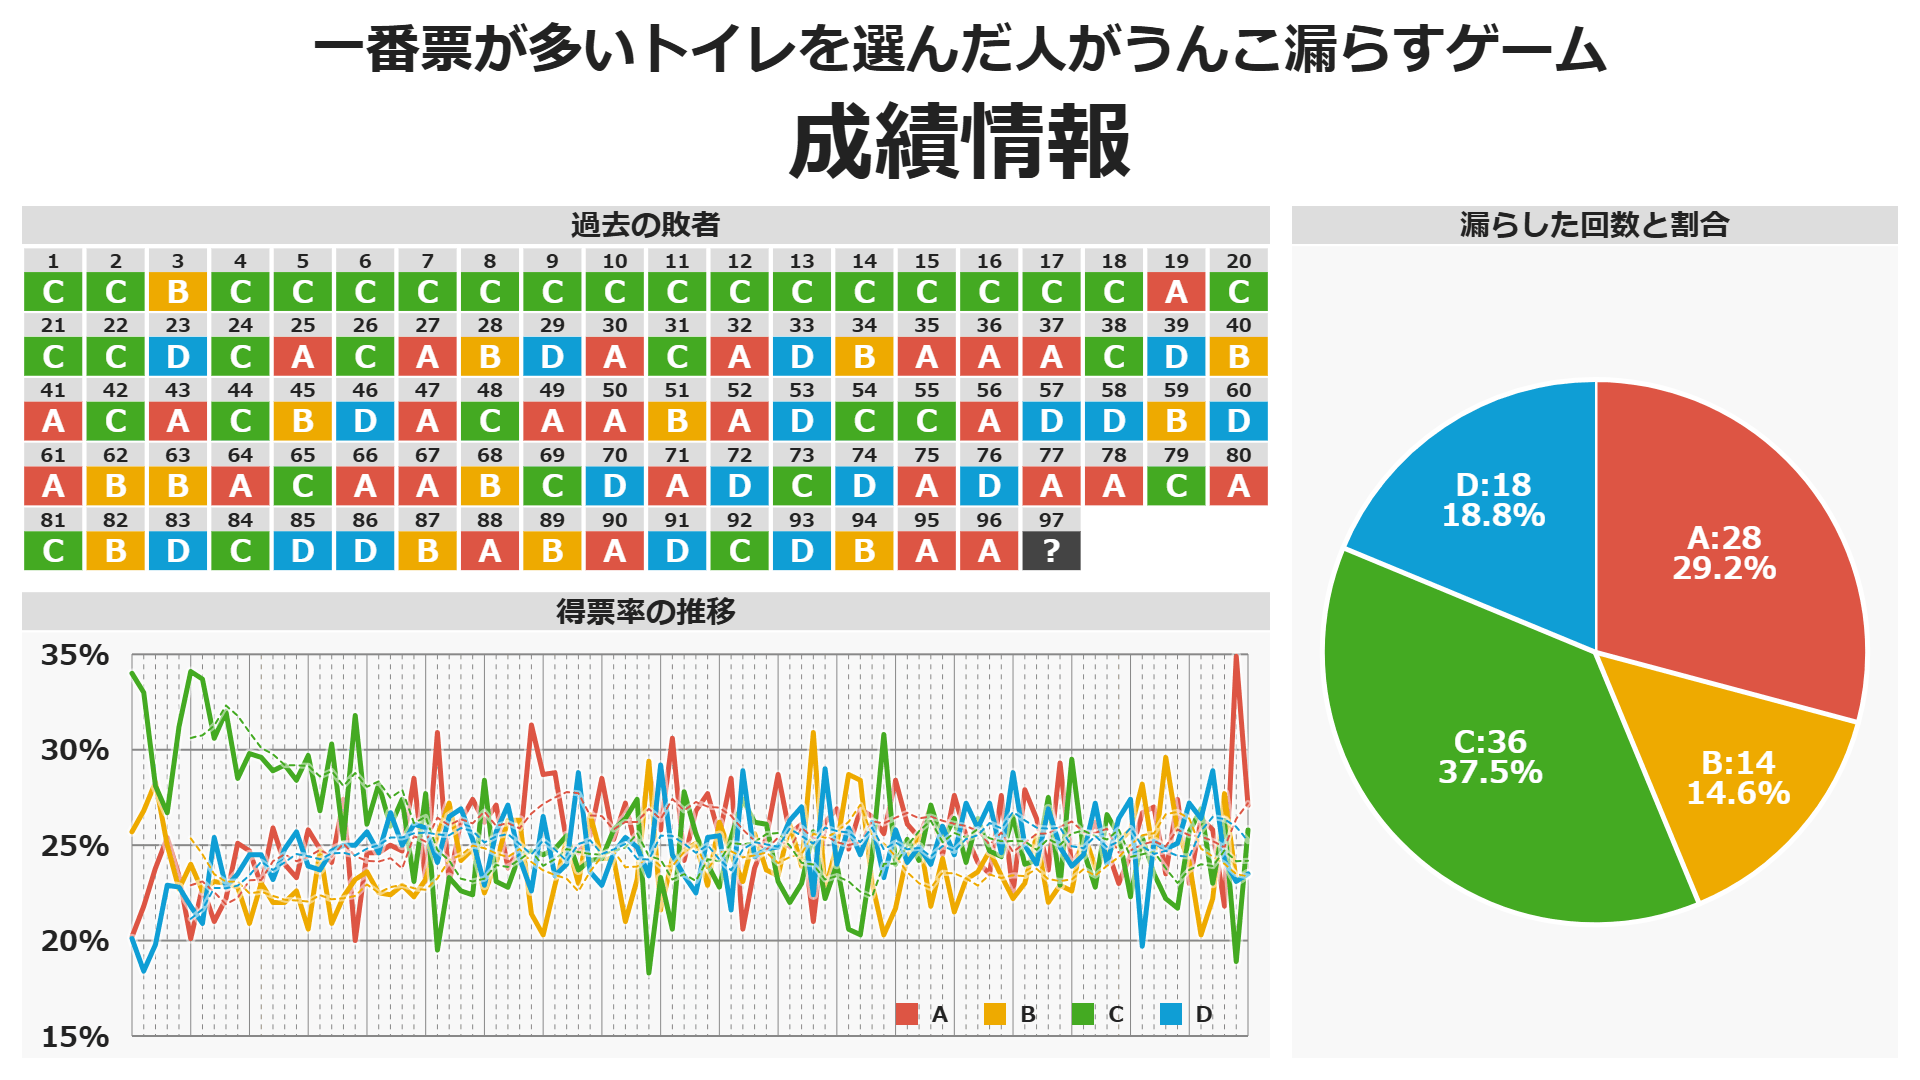
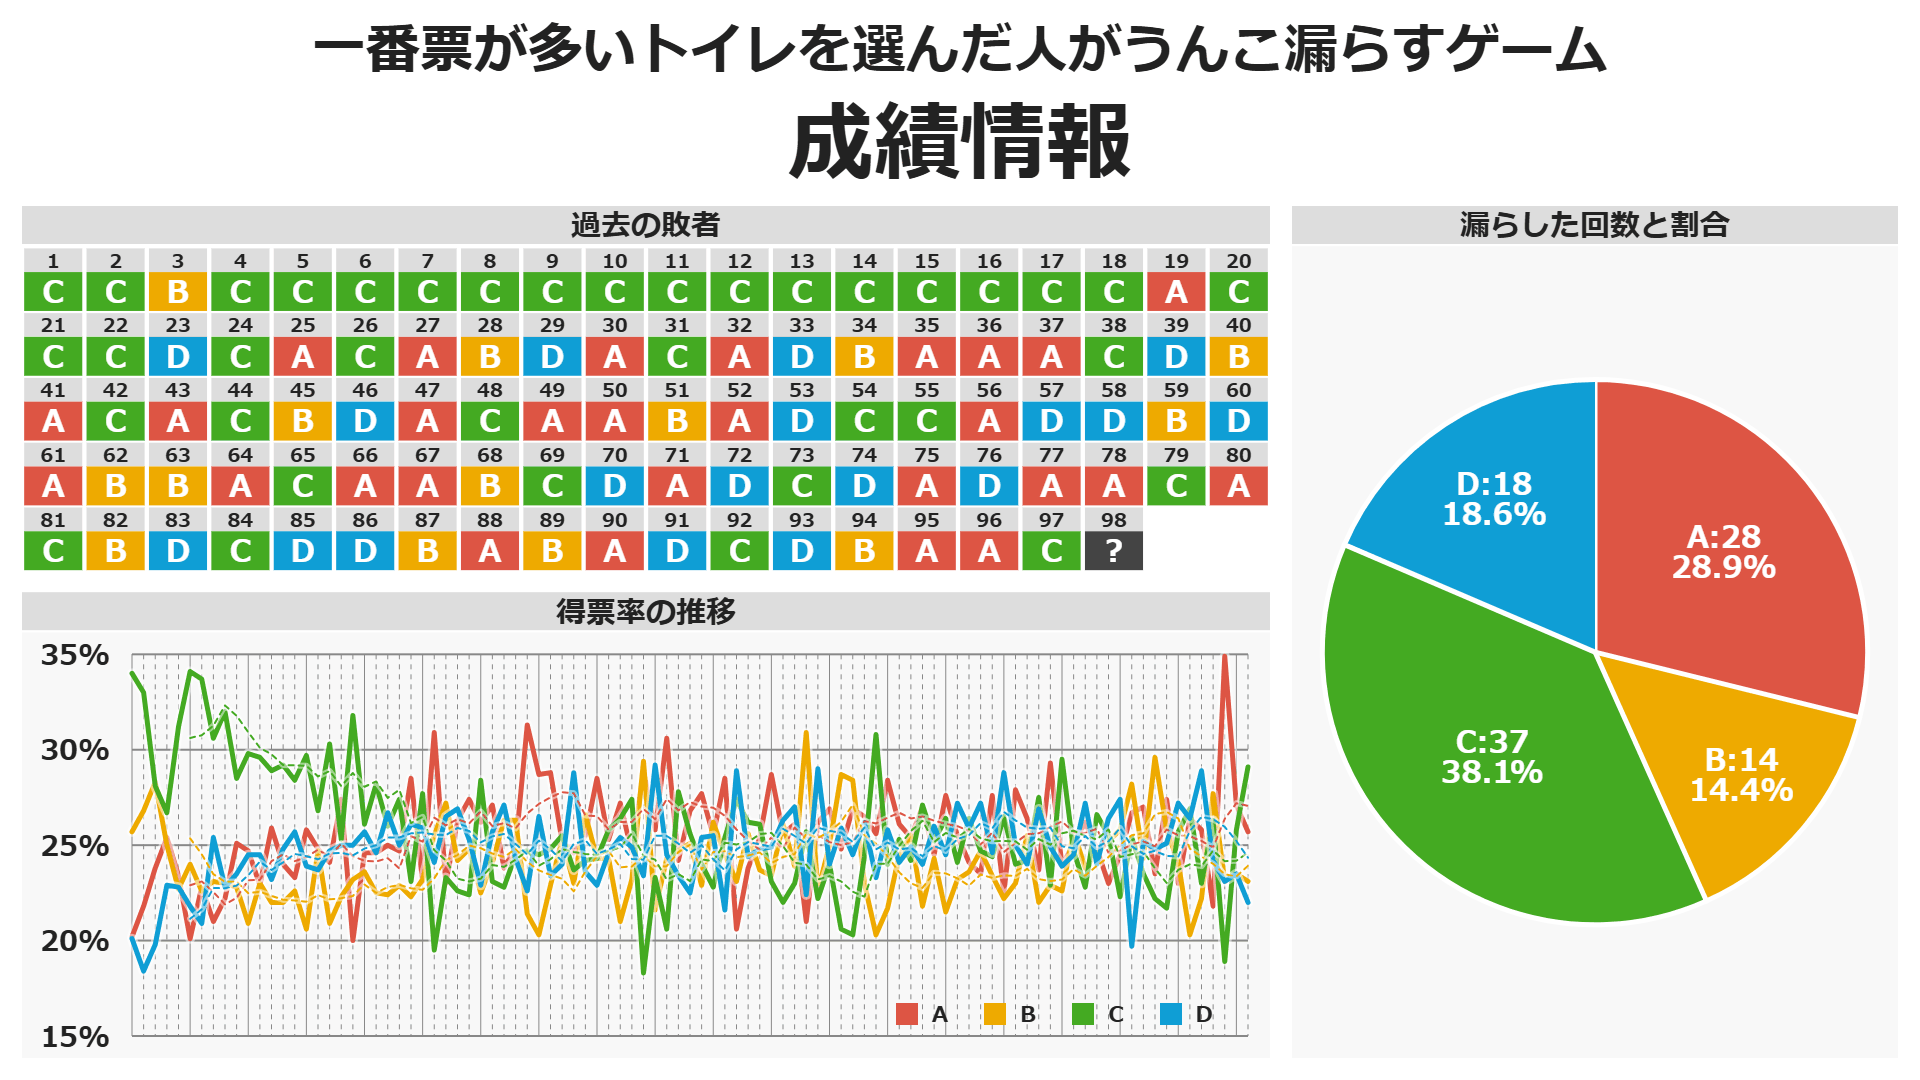
update

diff --git a/docs/index.html b/docs/index.html
@@ -13,7 +13,7 @@
   <meta property="og:url" content="https://shapoco.github.io/toilet-game/" />
   <meta property="og:title" content="4択トイレゲーム" />
   <meta property="og:description" content="一番票が多いトイレを選んだ人がうんこ漏らすゲーム" />
-  <meta property="og:image" content="https://shapoco.github.io/toilet-game/cover.png?20250927230300" />
+  <meta property="og:image" content="https://shapoco.github.io/toilet-game/cover.png?20251004221200" />
 
   <link rel="icon" href="https://shapoco.github.io/favicon192.png" sizes="192x192">
   <link rel="apple-touch-icon" href="https://shapoco.github.io/apple-touch-icon180.png" sizes="180x180">
@@ -37,8 +37,8 @@
   <style>
   </style>
 
-  <link rel="stylesheet" href="./style.css?20250927230300">
-  <script src="./toilet_game.js?20250927230300"></script>
+  <link rel="stylesheet" href="./style.css?20251004221200">
+  <script src="./toilet_game.js?20251004221200"></script>
 
   <title>4択トイレゲーム</title>
 </head>

diff --git a/docs/toilet_game.js b/docs/toilet_game.js
@@ -98,6 +98,7 @@ const DB = [
   { date: '2025-09-06', total: 376, percent: [21.8, 27.7, 26.3, 24.2], url: 'https://x.com/shapoco/status/1964300616047743369' },
   { date: '2025-09-13', total: 238, percent: [34.9, 23.1, 18.9, 23.1], url: 'https://x.com/shapoco/status/1966719857795453068' },
   { date: '2025-09-20', total: 387, percent: [27.1, 23.5, 25.8, 23.5], url: 'https://x.com/shapoco/status/1969319004259963332' },
-  { date: '2025-09-27', total: 0, percent: null, url: null },
+  { date: '2025-09-27', total: 381, percent: [25.7, 23.1, 29.1, 22], url: 'https://x.com/shapoco/status/1971942918664679556' },
+  { date: '2025-10-04', total: 0, percent: null, url: null },
   //{ date: '2025-xx-xx', total: 0, percent: null, url: null },
 ];

diff --git a/docs/work.html b/docs/work.html
@@ -34,8 +34,8 @@
     }
   </script>
 
-  <link rel="stylesheet" href="./style.css?20250927230300">
-  <script src="./toilet_game.js?20250927230300"></script>
+  <link rel="stylesheet" href="./style.css?20251004221200">
+  <script src="./toilet_game.js?20251004221200"></script>
 
   <title>4択トイレゲーム</title>
 </head>
